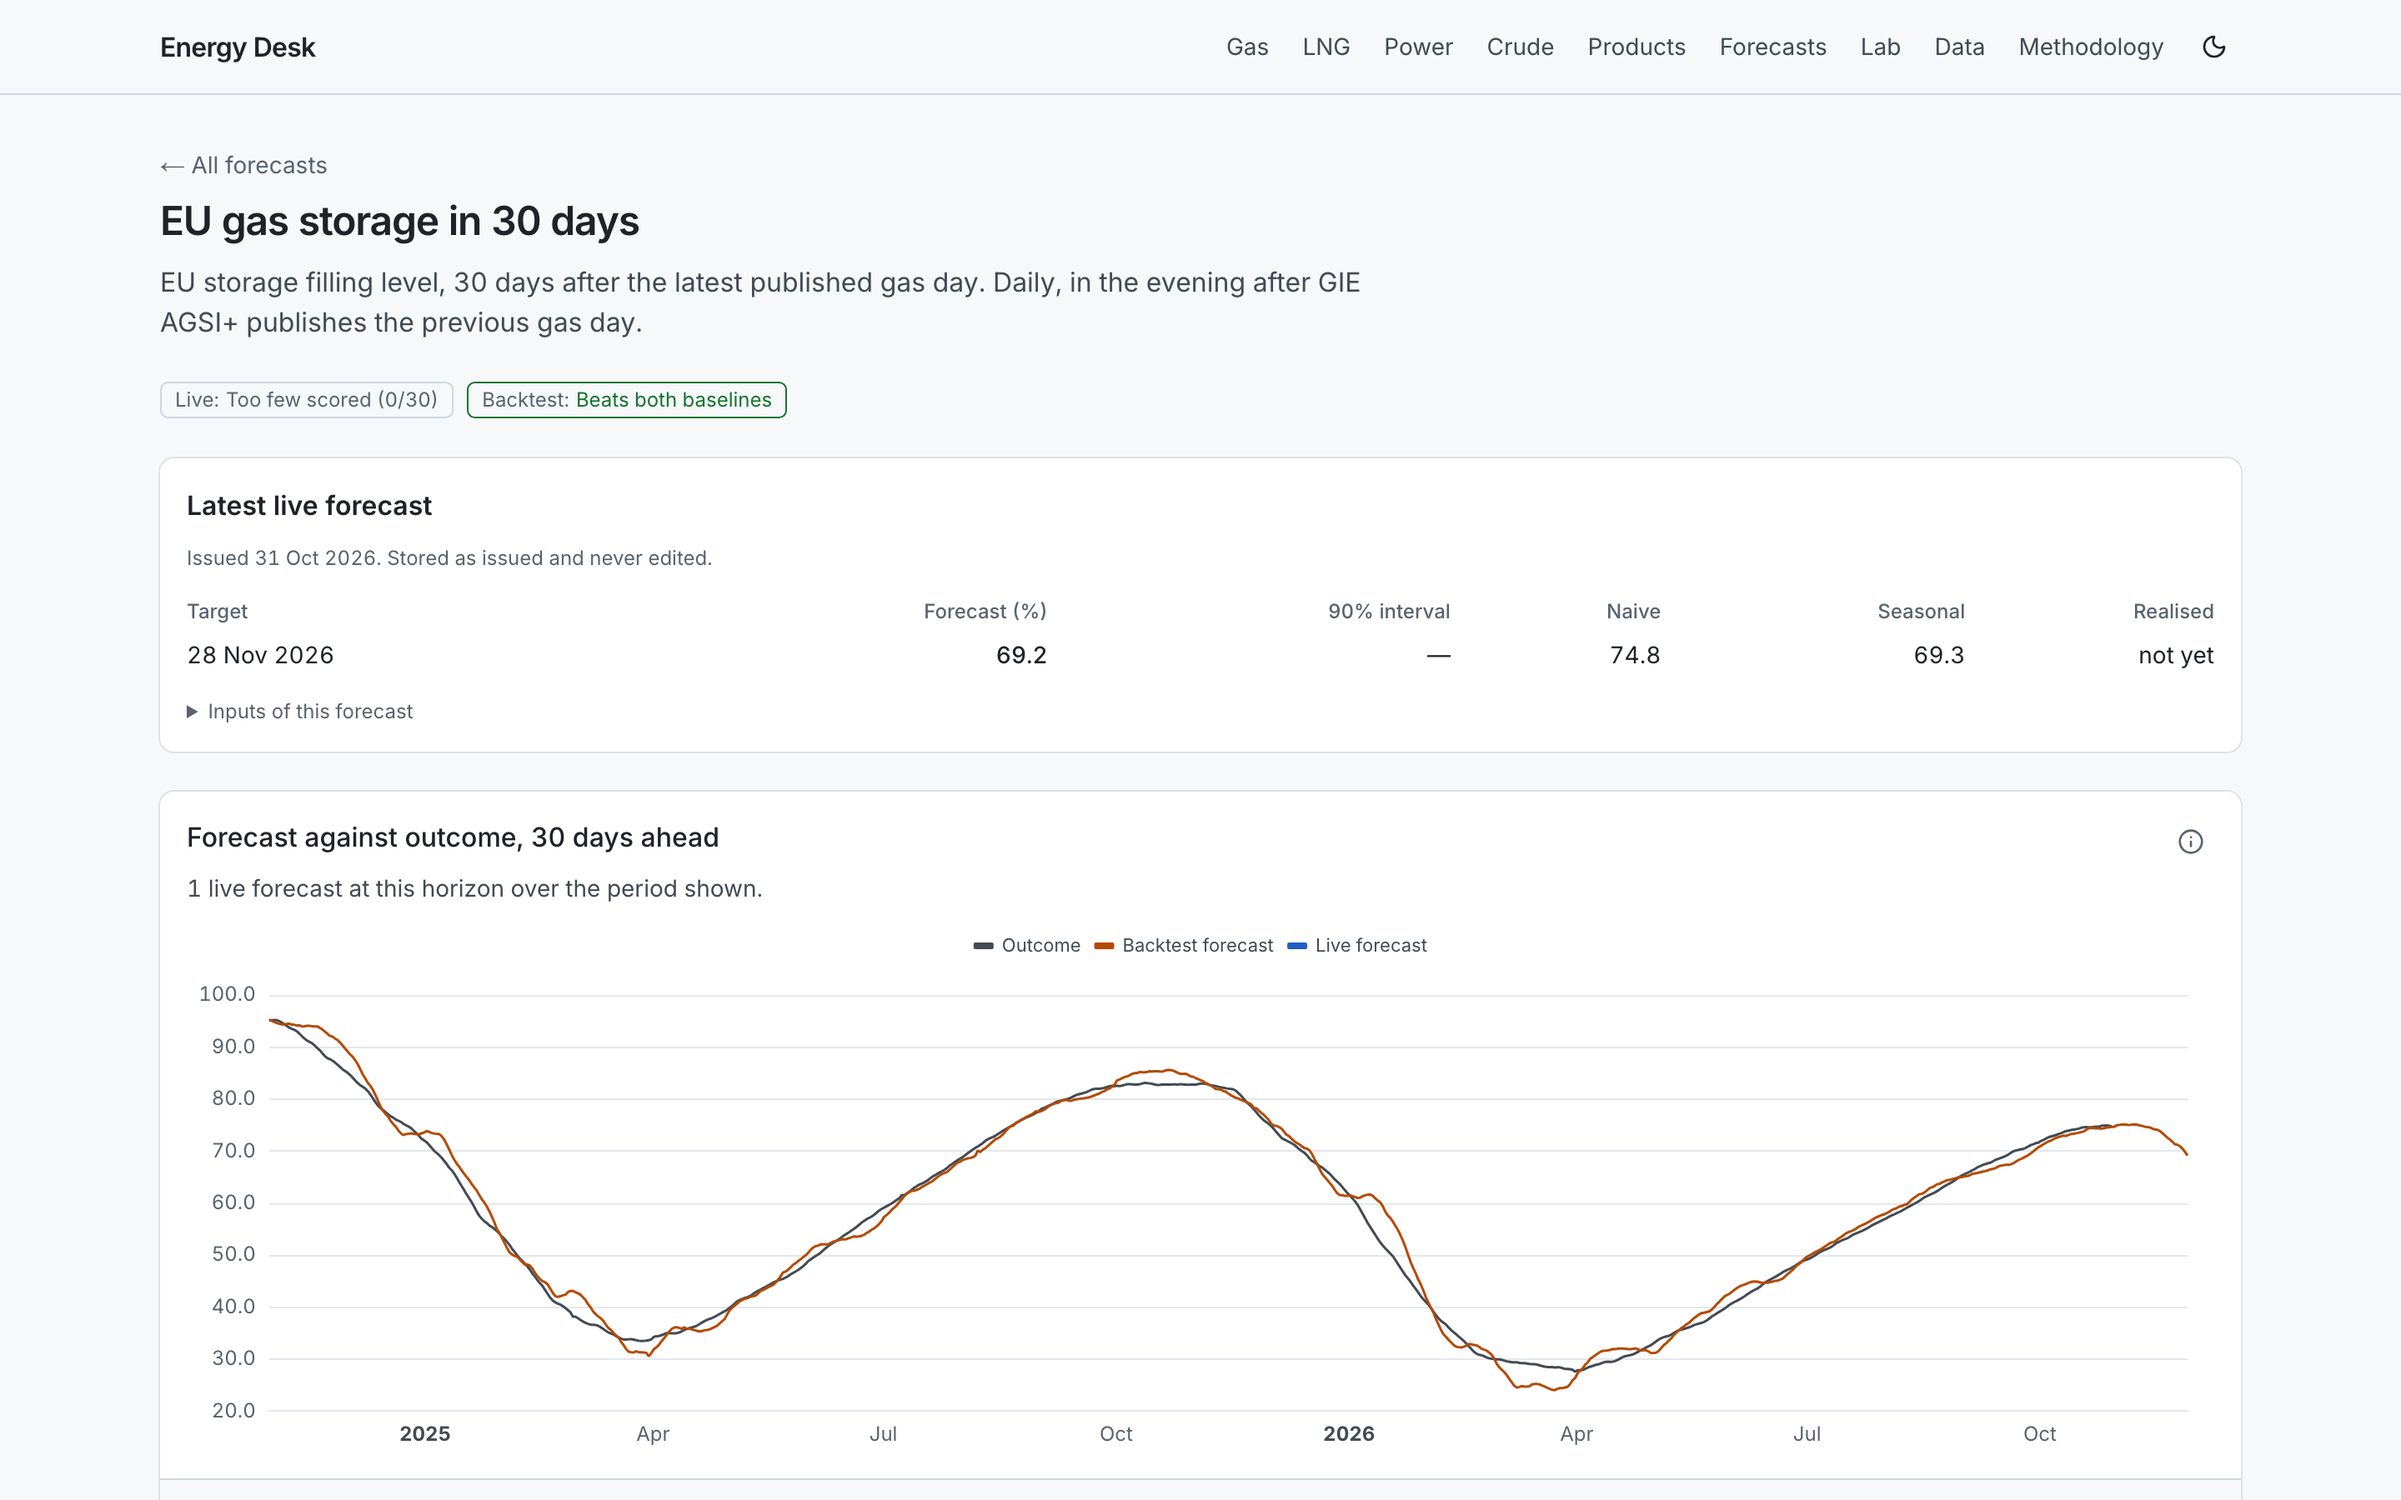
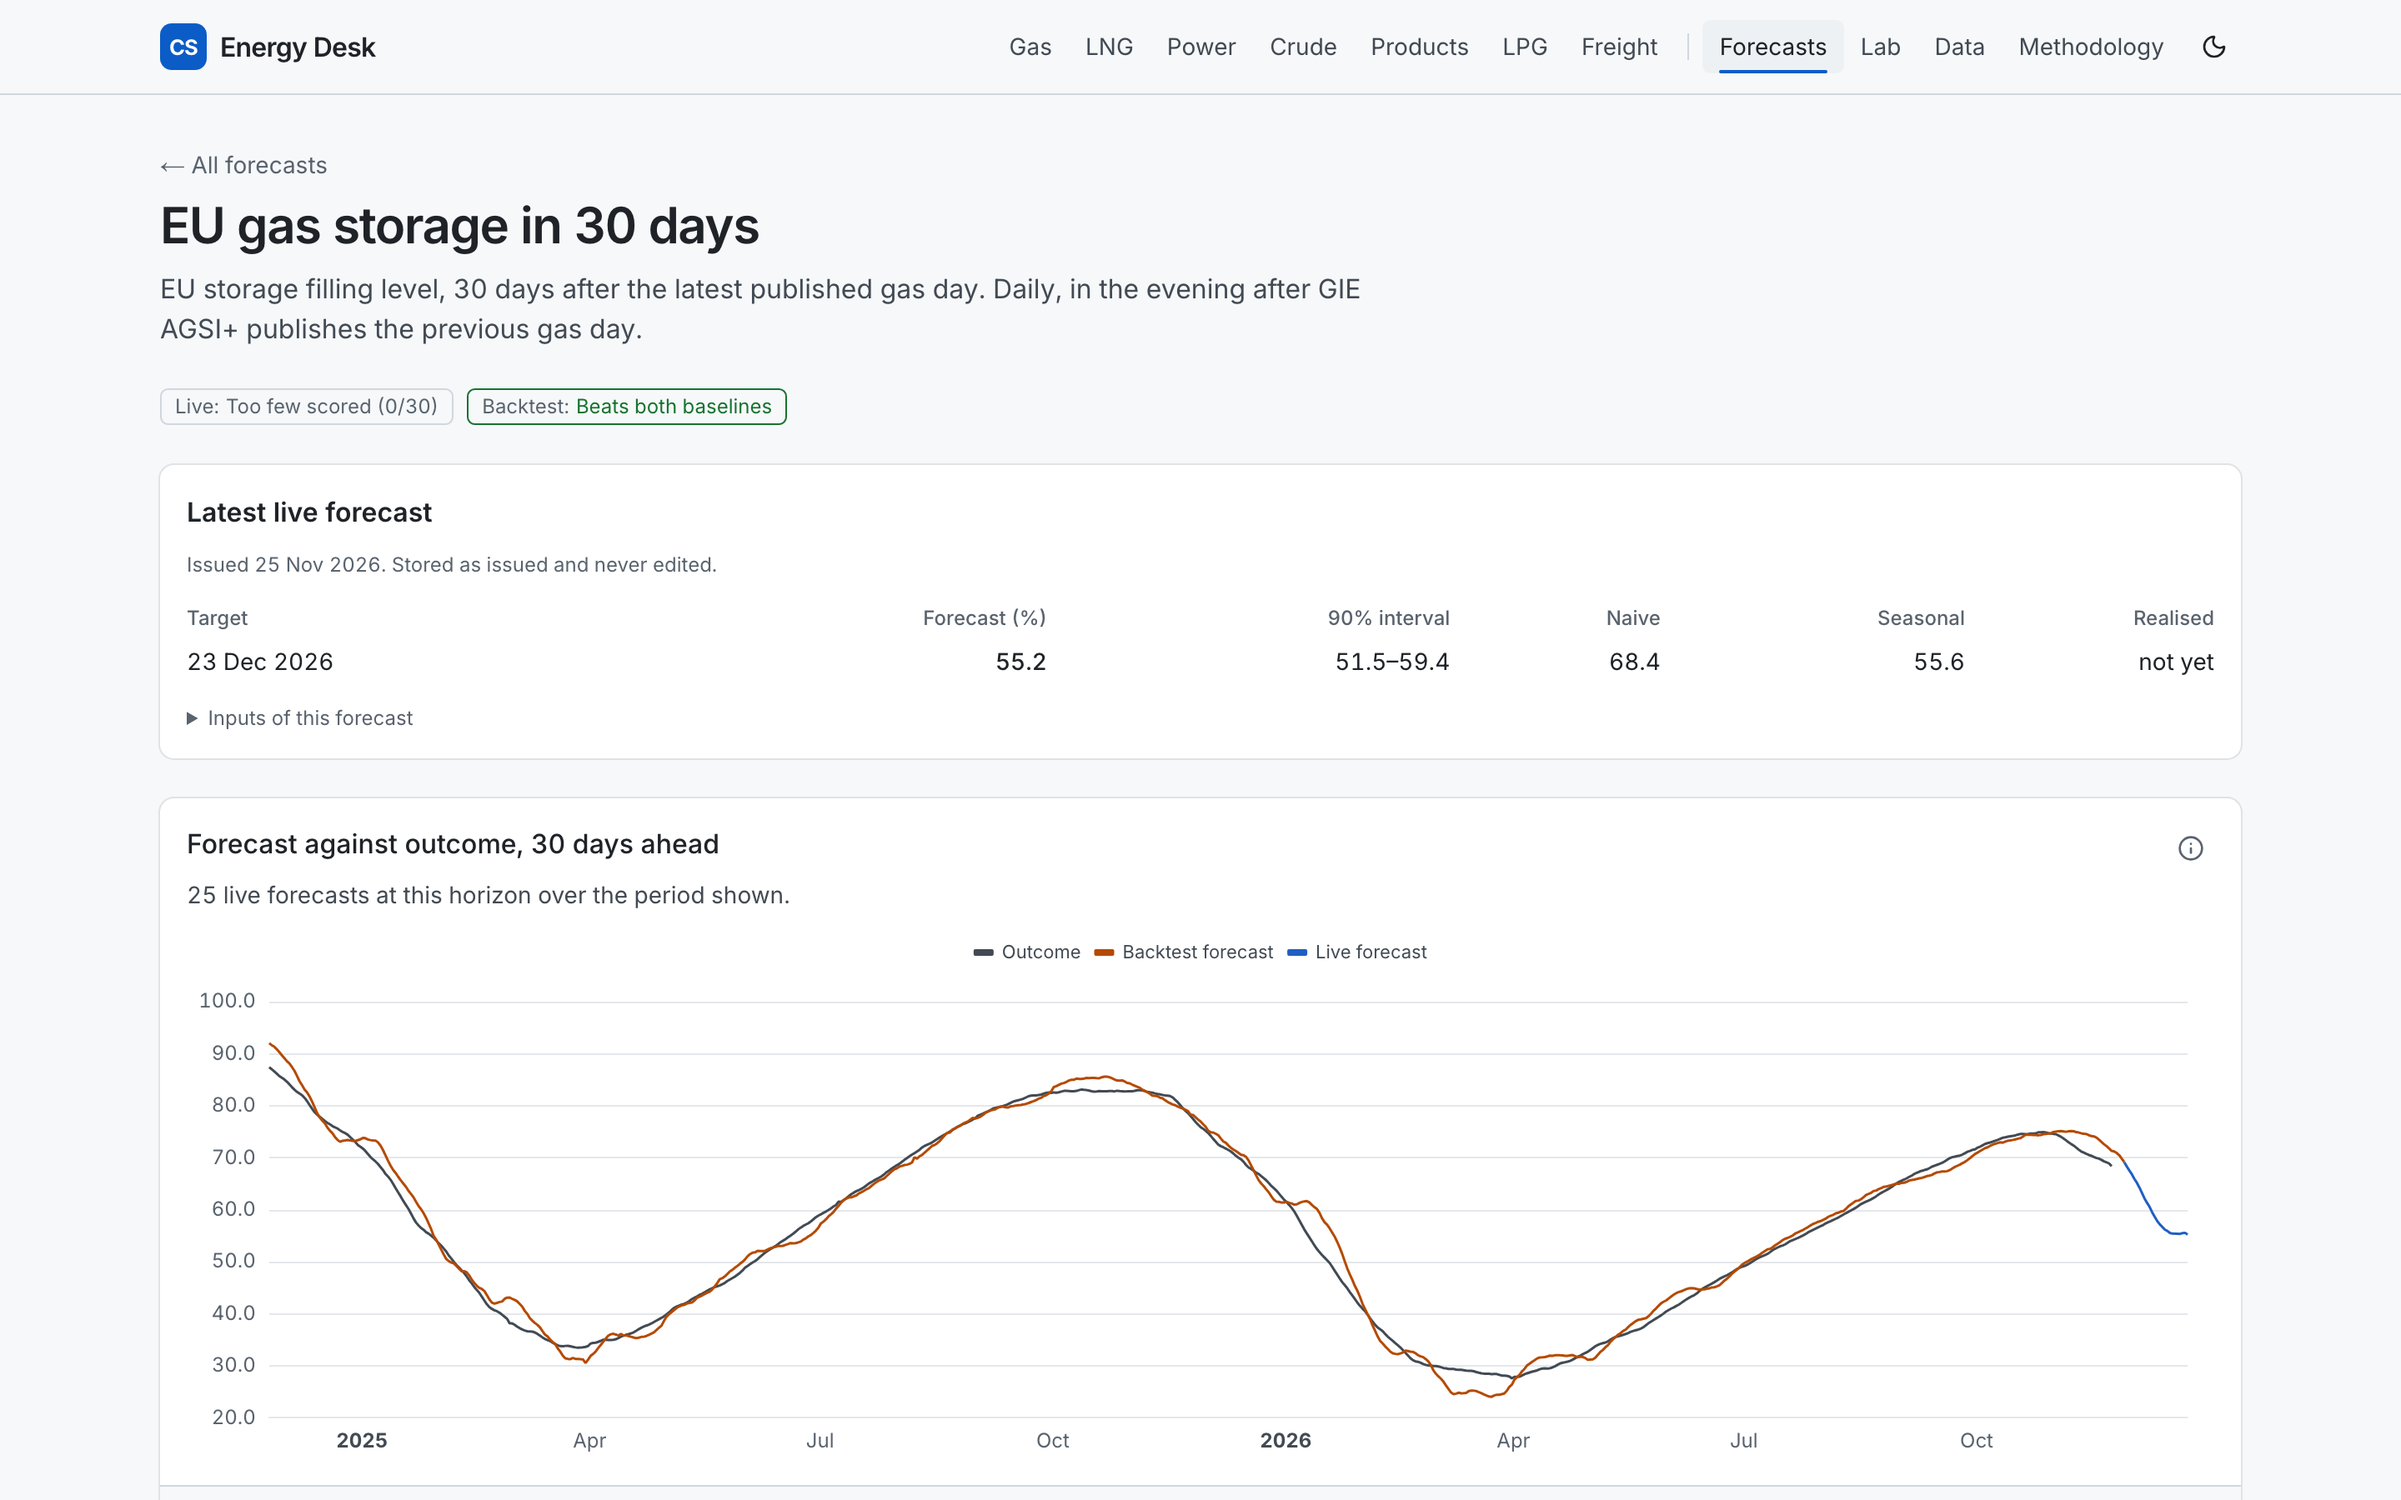
docs: refresh README screenshots with the new design, add freight

diff --git a/README.md b/README.md
@@ -36,6 +36,8 @@ a stored observation. Missing data is shown as missing, never estimated.
 | ![Gas page: EU storage against the 2021–2025 range](docs/screenshots/gas-light.png) | ![Forecast page: EU storage, forecast against outcome](docs/screenshots/forecasts-dark.png) |
 | **Power** | **Lab: rule backtester** |
 | ![Power page](docs/screenshots/power-dark.png) | ![Lab backtester: Brent–WTI mean reversion](docs/screenshots/lab-dark.png) |
+| **Freight & shipping** | **Home (light theme)** |
+| ![Freight page: tanker transits through the oil and LNG chokepoints](docs/screenshots/freight-dark.png) | ![Home in the light theme](docs/screenshots/home-light.png) |
 
 ## Data principles
 
